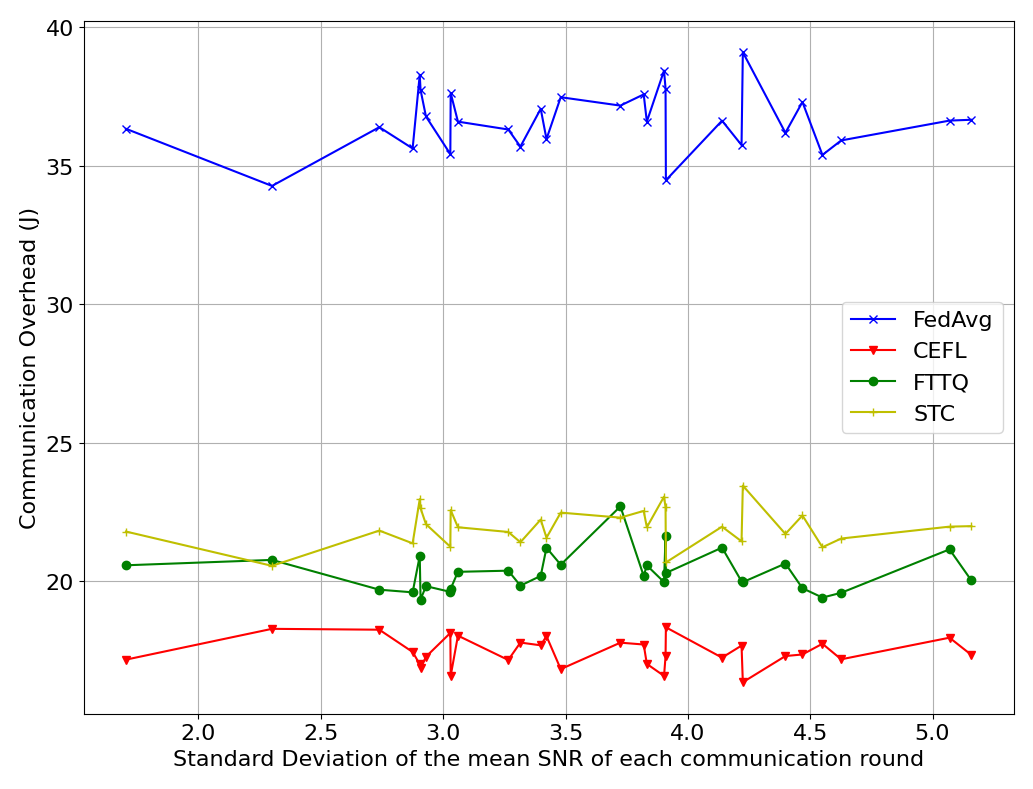
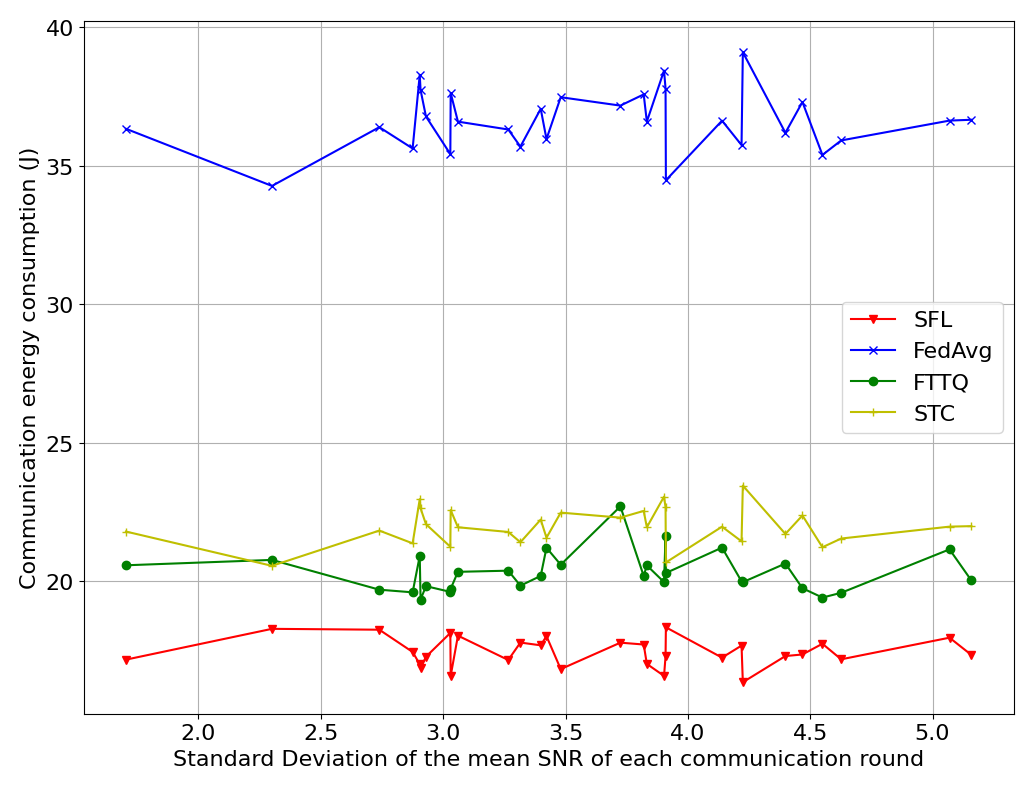
1021

Changed region(s): [[0.0, 0.1825, 0.062, 0.73], [0.8364, 0.3954, 0.9603, 0.4563]]

diff --git a/calculate_communication_cost.py b/calculate_communication_cost.py
@@ -16,32 +16,8 @@ inter_val = 2
 font_size = 16
 plt.rcParams.update({'font.size':font_size})
 plt.figure(figsize=(12,9))
-# 1
-random.seed(2048)
-np.random.seed(2048)
-res = []
-for i in range(test_count):
-    ce = []
-    mean_std = []
-    for com in range(communication_rounds):
-        SNR_for_each_clinets = random.sample(range(1+com, max_snr, inter_val), clients)
-        mean_SNR = np.mean(SNR_for_each_clinets)
-        for c_snr in SNR_for_each_clinets:
-            v = B_for_clients*np.log2(1+c_snr)
-            t = param_size/v
-            e = p_kt*t
-            ce.append(e)
-        mean_std.append(mean_SNR)
-    mean_std = np.std(mean_std)
-    ce = sum(ce)
-    res.append([mean_std,ce])
-res = sorted(res,key=lambda x:x[0])
-res_x = [x[0] for x in res]
-res_y = [x[1] for x in res]
-print(np.std(res_y))
-plt.plot(res_x,res_y, c='b', label='FedAvg',marker="x")
 
-# 2
+# 1
 random.seed(2048)
 np.random.seed(2048)
 res = []
@@ -65,7 +41,32 @@ res = sorted(res,key=lambda x:x[0])
 res_x = [x[0] for x in res]
 res_y = [x[1] for x in res]
 print(np.std(res_y))
-plt.plot(res_x,res_y, c='r', label='CEFL',marker="v")
+plt.plot(res_x,res_y, c='r', label='SFL',marker="v")
+
+# 2
+random.seed(2048)
+np.random.seed(2048)
+res = []
+for i in range(test_count):
+    ce = []
+    mean_std = []
+    for com in range(communication_rounds):
+        SNR_for_each_clinets = random.sample(range(1+com, max_snr, inter_val), clients)
+        mean_SNR = np.mean(SNR_for_each_clinets)
+        for c_snr in SNR_for_each_clinets:
+            v = B_for_clients*np.log2(1+c_snr)
+            t = param_size/v
+            e = p_kt*t
+            ce.append(e)
+        mean_std.append(mean_SNR)
+    mean_std = np.std(mean_std)
+    ce = sum(ce)
+    res.append([mean_std,ce])
+res = sorted(res,key=lambda x:x[0])
+res_x = [x[0] for x in res]
+res_y = [x[1] for x in res]
+print(np.std(res_y))
+plt.plot(res_x,res_y, c='b', label='FedAvg',marker="x")
 
 # 3
 random.seed(2048)
@@ -122,7 +123,7 @@ print(np.std(res_y))
 plt.plot(res_x,res_y, c='y', label='STC',marker="+")
 
 plt.legend(loc='best')
-plt.ylabel('Communication Overhead (J)')
+plt.ylabel('Communication energy consumption (J)')
 plt.xlabel('Standard Deviation of the mean SNR of each communication round')
 # plt.xticks(range(10),[i+1 for i in range(50) if (i+1)%5==0])
 plt.yticks()
@@ -186,7 +187,7 @@ res_x = [x[0] for x in res]
 res_y = [x[1] for x in res]
 print(np.std(res_y))
 ax = plt.subplot(811)
-ax.plot(res_x, res_y, c='r', label='CEFL', marker="v")
+ax.plot(res_x, res_y, c='r', label='SFL', marker="v")
 # ax.set_title("CEFL")
 ax.legend(loc='best')
 # ax.set_ylabel('Standard Deviation of communication overhead')

diff --git a/nets/base_nets.py b/nets/base_nets.py
@@ -16,15 +16,53 @@ class base_net(nn.Module):
         encoding = self.isc_model(x)
         encoding_with_noise = self.ch_model(encoding)
         decoding = self.isc_model(x, encoding_with_noise)
-        return encoding,encoding_with_noise,decoding
+        return decoding
 
 if __name__ == '__main__':
-    stu_model = ISCNet("vgg11").to("cuda")
-    mentor_model = ISCNet("resnet152").to("cuda")
-    channel_model = channel_net().to("cuda")
+    stu_model = ISCNet("vgg11")
+    # mentor_model = ISCNet("resnet152")
+    channel_model = channel_net()
 
     # tst_model = base_net(mentor_model,channel_model)
     # summary(tst_model,(3,224,224),device="cpu")
 
-    tst_model = base_net(mentor_model,channel_model).to("cuda")
-    summary(tst_model,(3,224,224),device="cuda")
+    model = base_net(stu_model, channel_model)
+    # summary(tst_model,(3,224,224),device="cuda")
+    checkpoint = torch.load(r"D:\PyProj\FL-LISC\checkpoints\0\student_vgg11_10_rali.pth", map_location='cpu')
+    model.load_state_dict(checkpoint)
+    model.eval()
+    # summary(model, (3, 224, 224),device="cpu")
+    from torchvision.io.image import read_image
+    from torchvision.transforms.functional import normalize, resize, to_pil_image
+    from torchcam.methods import SmoothGradCAMpp
+
+    cam_extractor = SmoothGradCAMpp(model)
+    # Get your input
+    img = read_image(r"D:\PyProj\FL-LISC\res2.jpg")
+    # Preprocess it for your chosen model
+    input_tensor = normalize(resize(img, (224, 224)) / 255., [0.485, 0.456, 0.406], [0.229, 0.224, 0.225])
+
+    # Preprocess your data and feed it to the model
+    decoding = model(input_tensor.unsqueeze(0))
+    print(decoding.squeeze(0).argmax().item())
+    # Retrieve the CAM by passing the class index and the model output
+    activation_map = cam_extractor(decoding.squeeze(0).argmax().item(), decoding)
+
+    import matplotlib.pyplot as plt
+
+    # Visualize the raw CAM
+    plt.imshow(activation_map[0].squeeze(0).numpy())
+    plt.axis('off')
+    plt.tight_layout()
+    plt.show()
+
+    import matplotlib.pyplot as plt
+    from torchcam.utils import overlay_mask
+
+    # Resize the CAM and overlay it
+    result = overlay_mask(to_pil_image(img), to_pil_image(activation_map[0].squeeze(0), mode='F'), alpha=0.5)
+    # Display it
+    plt.imshow(result)
+    plt.axis('off')
+    plt.tight_layout()
+    plt.show()

diff --git a/data_utils.py b/data_utils.py
@@ -259,24 +259,26 @@ def get_data_loaders(cfg, verbose=True):
   train_loader = torch.utils.data.DataLoader(CustomImageDataset(x_train, y_train, data_transforms), batch_size=32, shuffle=True)
   test_loader  = torch.utils.data.DataLoader(CustomImageDataset(x_test, y_test, label_transforms), batch_size=cfg.test_batch_size, shuffle=False)
 
-  # examples = enumerate(test_loader)  # img&label
-  # batch_idx, (imgs, labels) = next(examples)  # 读取数据,batch_idx从0开始
+  examples = enumerate(test_loader)  # img&label
+  batch_idx, (imgs, labels) = next(examples)  # 读取数据,batch_idx从0开始
   # 显示6张图片
-  # import matplotlib.pyplot as plt
-  # plt.figure()
-  # for i in range(6):
-  #     plt.subplot(2, 3, i + 1)
-  #     plt.tight_layout()
-  #     # 反归一化，将数据重新映射到0-1之间
-  #     img = imgs[i] / 2 + 0.5
-  #     plt.imshow(np.transpose(img.numpy(), (1, 2, 0)))
-  # plt.savefig("res.jpg")
-  # # plt.show()
-  # plt.figure()
-  # for i in range(6):
-  #     img = imgs[i] / 2 + 0.5
-  #     plt.imshow(np.transpose(img.numpy(), (1, 2, 0)))
-  #     plt.savefig(f"res{i}.jpg")
+  import matplotlib.pyplot as plt
+  plt.figure()
+  for i in range(6):
+      plt.subplot(2, 3, i + 1)
+      plt.tight_layout()
+      # 反归一化，将数据重新映射到0-1之间
+      img = imgs[i] / 2 + 0.5
+      plt.imshow(np.transpose(img.numpy(), (1, 2, 0)))
+  plt.savefig("res.jpg")
+  # plt.show()
+  plt.figure()
+  for i in range(6):
+      img = imgs[i] / 2 + 0.5
+      plt.imshow(np.transpose(img.numpy(), (1, 2, 0)))
+      plt.axis('off')
+      # plt.tight_layout()
+      plt.savefig(f"res{i}.jpg",bbox_inches='tight', pad_inches=0.1)
   stats = {"split": [x.shape[0] for x,y in split]}
 
   return client_loaders, train_loader, test_loader, stats

diff --git a/nets/isc_model.py b/nets/isc_model.py
@@ -14,7 +14,7 @@ class ISCNet(nn.Module):
             self.encoder.load_state_dict(weights)
             self.encoder.fc = nn.Linear(self.encoder.fc.in_features, 512)
         elif model_name == "resnet152":
-            self.encoder = getattr(models, model_name)(pretrained=True)
+            self.encoder = getattr(models, model_name)(pretrained=False)
             self.encoder.fc = nn.Linear(self.encoder.fc.in_features, 512)
         elif model_name == "resnet50":
             self.encoder = getattr(models, model_name)(pretrained=True)
@@ -64,6 +64,6 @@ if __name__ == '__main__':
     # checkpoint = torch.load("mae_visualize_vit_large_ganloss.pth", map_location='cpu')
     # net.load_state_dict(checkpoint['model'], strict=False)
     # summary(net, (3, 224, 224),device="cpu")
-    model_name = "resnet50"
+    model_name = "vgg11"
     model = ISCNet(model_name)
-    summary(model, (3, 224, 224),device="cpu")
+

diff --git a/draw_results.py b/draw_results.py
@@ -111,7 +111,7 @@ for client_id in range(9):
 font_size = 16
 plt.figure(figsize=(12,9))
 plt.rcParams.update({'font.size':font_size})
-plt.plot(np.array(KF_ACC), c='r', label='KDAT+FedAP',marker="v")
+plt.plot(np.array(KF_ACC), c='r', label='SFL',marker="v")
 plt.plot(np.array(FedAvg_ACC),c='b',label='FedAvg',marker='x')
 plt.plot(np.array(FTTQ_acc),c='g',label='FTTQ',marker='o')
 plt.plot(np.array(STC_acc), c='y', label='STC',marker='+')

diff --git a/nets/channel_nets.py b/nets/channel_nets.py
@@ -137,7 +137,7 @@ class channel_net(nn.Module):
         self.rali = rali
         self.h = h_list[0]
 
-    def forward(self, x, device="cuda"):
+    def forward(self, x, device="cpu"):
         self.h.to(device)
         x = self.enc_fc1(x)
         x = self.relu(x)
